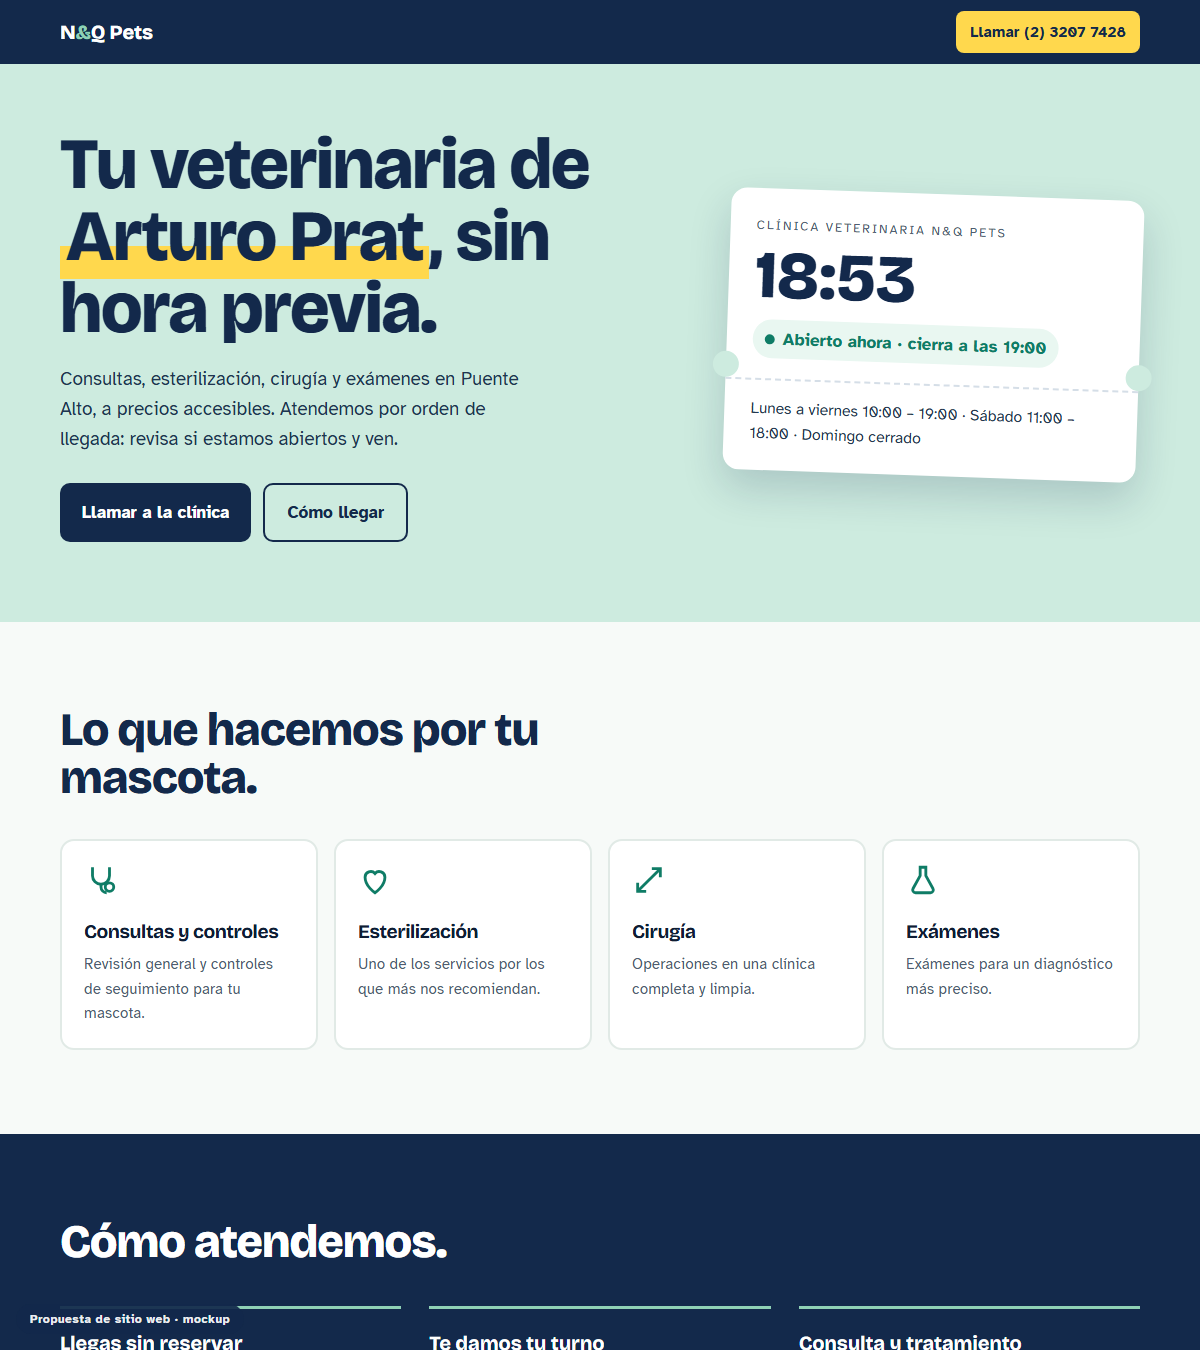
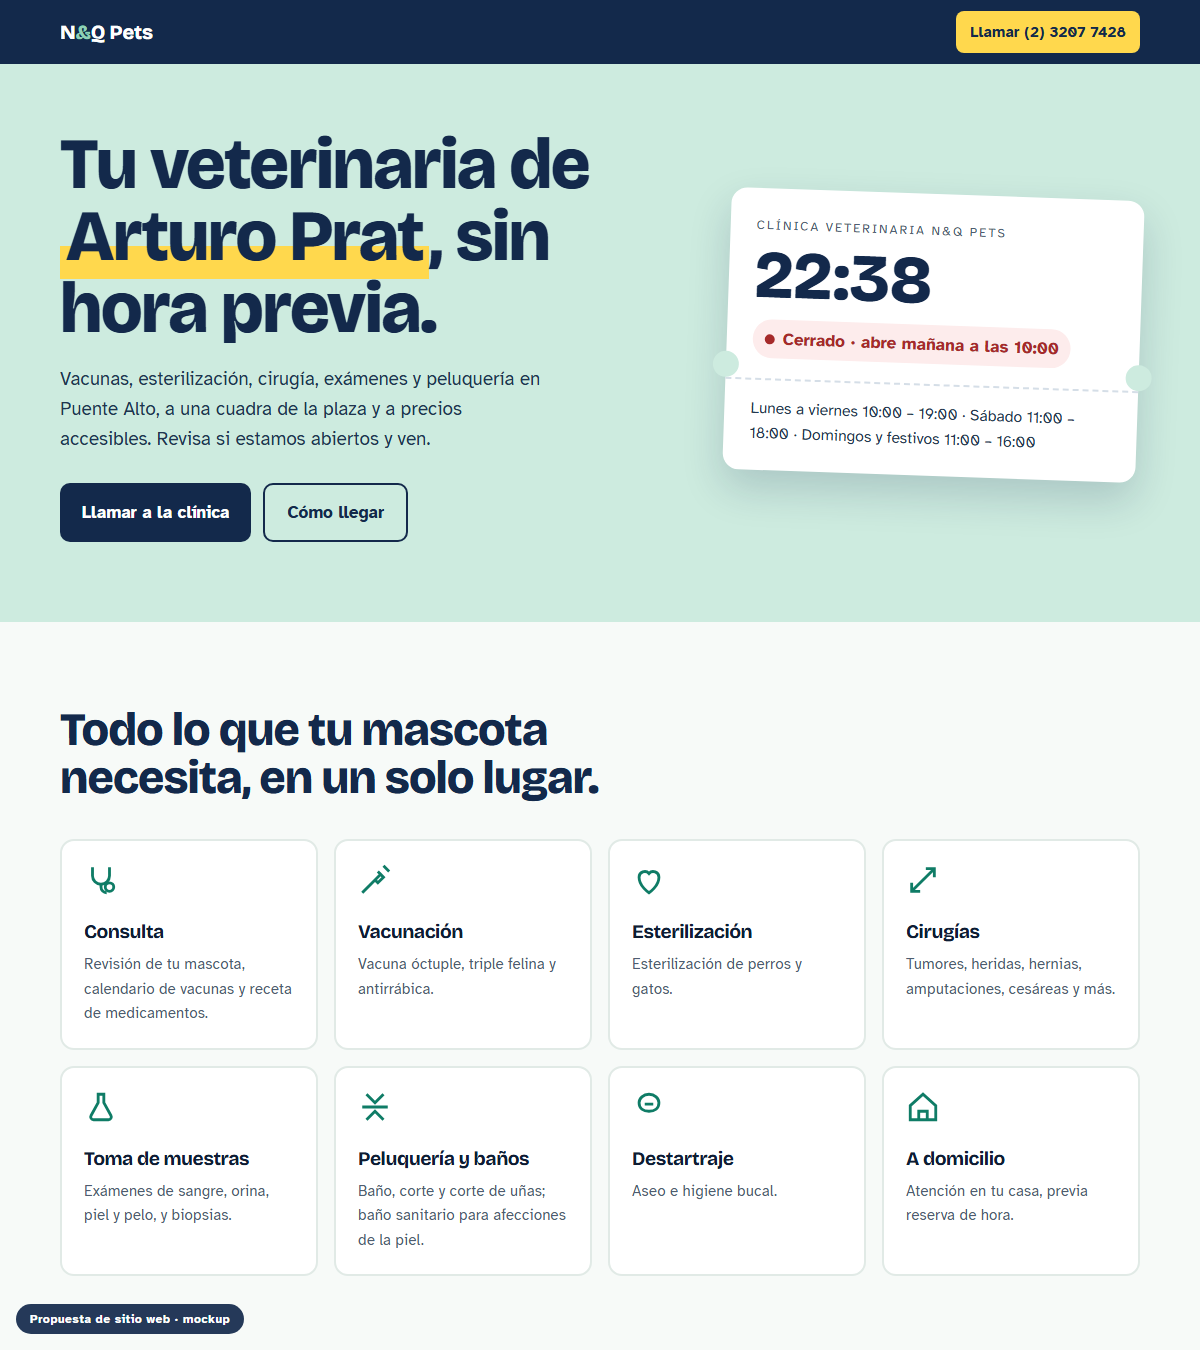
Mockup: nq-pets-puente-alto updated with data from their Wix site

diff --git a/nq-pets-puente-alto/index.html b/nq-pets-puente-alto/index.html
@@ -5,7 +5,7 @@
 <meta name="viewport" content="width=device-width, initial-scale=1">
 <meta name="robots" content="noindex,nofollow">
 <title>Clínica Veterinaria N&amp;Q Pets · Puente Alto</title>
-<meta name="description" content="Clínica Veterinaria N&Q Pets en Arturo Prat 87, Puente Alto: consultas, esterilización, cirugía y exámenes a precios accesibles. Atención por orden de llegada.">
+<meta name="description" content="Clínica Veterinaria N&Q Pets en Arturo Prat 87, Puente Alto: vacunación, esterilización, cirugía, exámenes, peluquería y atención a domicilio a precios accesibles.">
 <link rel="preconnect" href="https://fonts.googleapis.com">
 <link rel="preconnect" href="https://fonts.gstatic.com" crossorigin>
 <link href="https://fonts.googleapis.com/css2?family=Bricolage+Grotesque:opsz,wght@12..96,500;12..96,700;12..96,800&family=Atkinson+Hyperlegible:wght@400;700&display=swap" rel="stylesheet">
@@ -81,6 +81,15 @@
   .addr{background:var(--mint);border-radius:16px;padding:30px}
   .addr .disp{font-weight:700;font-size:1.6rem;line-height:1.15;color:var(--navy);margin:8px 0 14px}
 
+
+  .prices{background:var(--mint)}
+  .prices h2{font-weight:800;font-size:clamp(1.9rem,4vw,2.9rem);line-height:1.05;color:var(--navy);max-width:20ch}
+  .prices .note{margin-top:12px;color:#1F3550;max-width:60ch}
+  .pt{background:#fff;border-radius:14px;overflow:hidden;margin-top:28px;max-width:720px}
+  .pt th{background:var(--navy);color:#fff;text-align:left;padding:12px 16px;font-weight:700}
+  .pt th:not(:first-child),.pt td:not(:first-child){text-align:right}
+  .pt td{padding:12px 16px}
+
   footer{background:var(--ink);color:#AFC0D3;padding:30px 0 90px;font-size:.9rem}
   footer .wrap{display:flex;justify-content:space-between;flex-wrap:wrap;gap:12px}
 
@@ -114,7 +123,7 @@
     <div class="wrap grid">
       <div>
         <h1>Tu veterinaria de <span class="u">Arturo Prat</span>, sin hora previa.</h1>
-        <p class="lead">Consultas, esterilización, cirugía y exámenes en Puente Alto, a precios accesibles. Atendemos por orden de llegada: revisa si estamos abiertos y ven.</p>
+        <p class="lead">Vacunas, esterilización, cirugía, exámenes y peluquería en Puente Alto, a una cuadra de la plaza y a precios accesibles. Revisa si estamos abiertos y ven.</p>
         <div class="btns">
           <a class="btn btn-navy" href="tel:+56232077428">Llamar a la clínica</a>
           <a class="btn btn-line" href="https://maps.google.com/?cid=11905622080538741399">Cómo llegar</a>
@@ -125,30 +134,46 @@
         <div class="num" id="t-time">--:--</div>
         <span class="status" id="t-status"><i></i><span>Revisando horario…</span></span>
         <hr>
-        <p id="t-note">Lunes a viernes 10:00 – 19:00 · Sábado 11:00 – 18:00 · Domingo cerrado</p>
+        <p id="t-note">Lunes a viernes 10:00 – 19:00 · Sábado 11:00 – 18:00 · Domingos y festivos 11:00 – 16:00</p>
       </div>
     </div>
   </section>
 
   <section class="services" id="servicios">
     <div class="wrap">
-      <h2>Lo que hacemos por tu mascota.</h2>
+      <h2>Todo lo que tu mascota necesita, en un solo lugar.</h2>
       <div class="cards">
         <div class="card">
           <svg viewBox="0 0 24 24" fill="none" stroke="currentColor" stroke-width="2" aria-hidden="true"><path d="M6 3v6a6 6 0 0 0 12 0V3"/><circle cx="18" cy="17" r="3"/><path d="M12 15v2a4 4 0 0 0 4 4"/></svg>
-          <h3>Consultas y controles</h3><p>Revisión general y controles de seguimiento para tu mascota.</p>
+          <h3>Consulta</h3><p>Revisión de tu mascota, calendario de vacunas y receta de medicamentos.</p>
+        </div>
+        <div class="card">
+          <svg viewBox="0 0 24 24" fill="none" stroke="currentColor" stroke-width="2" aria-hidden="true"><path d="M18 2l4 4M14 6l4 4M3 21l9-9M12 12l4-4 2 2-4 4z"/></svg>
+          <h3>Vacunación</h3><p>Vacuna óctuple, triple felina y antirrábica.</p>
         </div>
         <div class="card">
           <svg viewBox="0 0 24 24" fill="none" stroke="currentColor" stroke-width="2" aria-hidden="true"><path d="M12 21s-7-4.5-7-11a4 4 0 0 1 7-2.6A4 4 0 0 1 19 10c0 6.5-7 11-7 11Z"/></svg>
-          <h3>Esterilización</h3><p>Uno de los servicios por los que más nos recomiendan.</p>
+          <h3>Esterilización</h3><p>Esterilización de perros y gatos.</p>
         </div>
         <div class="card">
           <svg viewBox="0 0 24 24" fill="none" stroke="currentColor" stroke-width="2" aria-hidden="true"><path d="M4 20 20 4M14 4h6v6"/><path d="M4 14v6h6"/></svg>
-          <h3>Cirugía</h3><p>Operaciones en una clínica completa y limpia.</p>
+          <h3>Cirugías</h3><p>Tumores, heridas, hernias, amputaciones, cesáreas y más.</p>
         </div>
         <div class="card">
           <svg viewBox="0 0 24 24" fill="none" stroke="currentColor" stroke-width="2" aria-hidden="true"><path d="M9 3h6M10 3v6l-5 9a2 2 0 0 0 1.8 3h10.4a2 2 0 0 0 1.8-3l-5-9V3"/></svg>
-          <h3>Exámenes</h3><p>Exámenes para un diagnóstico más preciso.</p>
+          <h3>Toma de muestras</h3><p>Exámenes de sangre, orina, piel y pelo, y biopsias.</p>
+        </div>
+        <div class="card">
+          <svg viewBox="0 0 24 24" fill="none" stroke="currentColor" stroke-width="2" aria-hidden="true"><path d="M6 3l6 6 6-6M6 21l6-6 6 6M3 12h18"/></svg>
+          <h3>Peluquería y baños</h3><p>Baño, corte y corte de uñas; baño sanitario para afecciones de la piel.</p>
+        </div>
+        <div class="card">
+          <svg viewBox="0 0 24 24" fill="none" stroke="currentColor" stroke-width="2" aria-hidden="true"><path d="M12 3c4 0 7 3 7 6 0 4-3 6-7 6s-7-2-7-6c0-3 3-6 7-6zM9 10h6"/></svg>
+          <h3>Destartraje</h3><p>Aseo e higiene bucal.</p>
+        </div>
+        <div class="card">
+          <svg viewBox="0 0 24 24" fill="none" stroke="currentColor" stroke-width="2" aria-hidden="true"><path d="M3 11l9-8 9 8v10H3zM9 21v-6h6v6"/></svg>
+          <h3>A domicilio</h3><p>Atención en tu casa, previa reserva de hora.</p>
         </div>
       </div>
     </div>
@@ -164,10 +189,31 @@
       </div>
       <div class="facts" aria-label="Datos útiles">
         <span>4,4 ★ · 518 reseñas en Google</span>
+        <span>Hospital 10:00 a 19:00</span>
+        <span>Alimentos medicados y accesorios</span>
         <span>Precios accesibles</span>
         <span>Pago con tarjeta</span>
         <span>Estacionamiento</span>
       </div>
+    </div>
+  </section>
+
+  <section class="prices" id="precios">
+    <div class="wrap">
+      <h2>Precios de peluquería.</h2>
+      <p class="note">Valores mínimos según peso; pueden subir según el estado del pelo (motas, enredos, etc.).</p>
+      <table class="pt">
+        <thead><tr><th>Peso</th><th>Peluquería</th><th>Baño sanitario</th></tr></thead>
+        <tbody>
+          <tr><td>Hasta 3 kg</td><td>$12.000</td><td>$10.000</td></tr>
+          <tr><td>3,1 a 6 kg</td><td>$15.000</td><td>$12.000</td></tr>
+          <tr><td>6,1 a 10 kg</td><td>$18.000</td><td>$15.000</td></tr>
+          <tr><td>10,1 a 15 kg</td><td>$20.000</td><td>$18.000</td></tr>
+          <tr><td>15,1 a 20 kg</td><td>$22.000</td><td>$20.000</td></tr>
+          <tr><td>20,1 a 25 kg</td><td>$25.000</td><td>$22.000</td></tr>
+          <tr><td>Más de 25 kg</td><td>$1.000 por kg</td><td>$25.000</td></tr>
+        </tbody>
+      </table>
     </div>
   </section>
 
@@ -182,13 +228,14 @@
           <tr data-d="4"><td>Jueves</td><td>10:00 – 19:00</td></tr>
           <tr data-d="5"><td>Viernes</td><td>10:00 – 19:00</td></tr>
           <tr data-d="6"><td>Sábado</td><td>11:00 – 18:00</td></tr>
-          <tr data-d="0"><td>Domingo</td><td>Cerrado</td></tr>
+          <tr data-d="0"><td>Domingo y festivos</td><td>11:00 – 16:00</td></tr>
         </table>
       </div>
       <div class="addr">
         <div style="font-size:.8rem;letter-spacing:.16em;text-transform:uppercase;color:var(--teal);font-weight:700">Dirección</div>
         <div class="disp">Arturo Prat 87,<br>Puente Alto</div>
-        <p>Región Metropolitana</p>
+        <p>Esquina Santo Domingo, a una cuadra de la plaza de Puente Alto.</p>
+        <p style="margin-top:8px">Celular: 9018 2265 · <a href="mailto:nyqpets@hotmail.com">nyqpets@hotmail.com</a></p>
         <div class="btns" style="margin-top:20px">
           <a class="btn btn-navy" href="https://maps.google.com/?cid=11905622080538741399">Abrir en Google Maps</a>
           <a class="btn btn-line" href="tel:+56232077428">(2) 3207 7428</a>
@@ -201,13 +248,13 @@
 <footer>
   <div class="wrap">
     <span>Clínica Veterinaria N&amp;Q Pets · Arturo Prat 87, Puente Alto</span>
-    <span>Teléfono (2) 3207 7428</span>
+    <span>Tel. (2) 3207 7428 · nyqpets@hotmail.com</span>
   </div>
 </footer>
 <div class="mockup-pill" aria-hidden="true">Propuesta de sitio web · mockup</div>
 <script>
   // Opening hours [open, close] in minutes, by weekday (0 = Sunday).
-  const H = {0:null,1:[600,1140],2:[600,1140],3:[600,1140],4:[600,1140],5:[600,1140],6:[660,1080]};
+  const H = {0:[660,960],1:[600,1140],2:[600,1140],3:[600,1140],4:[600,1140],5:[600,1140],6:[660,1080]};
   const fmt = m => String(Math.floor(m/60)).padStart(2,'0') + ':' + String(m%60).padStart(2,'0');
   const now = new Date(new Date().toLocaleString('en-US',{timeZone:'America/Santiago'}));
   const d = now.getDay(), m = now.getHours()*60 + now.getMinutes();
